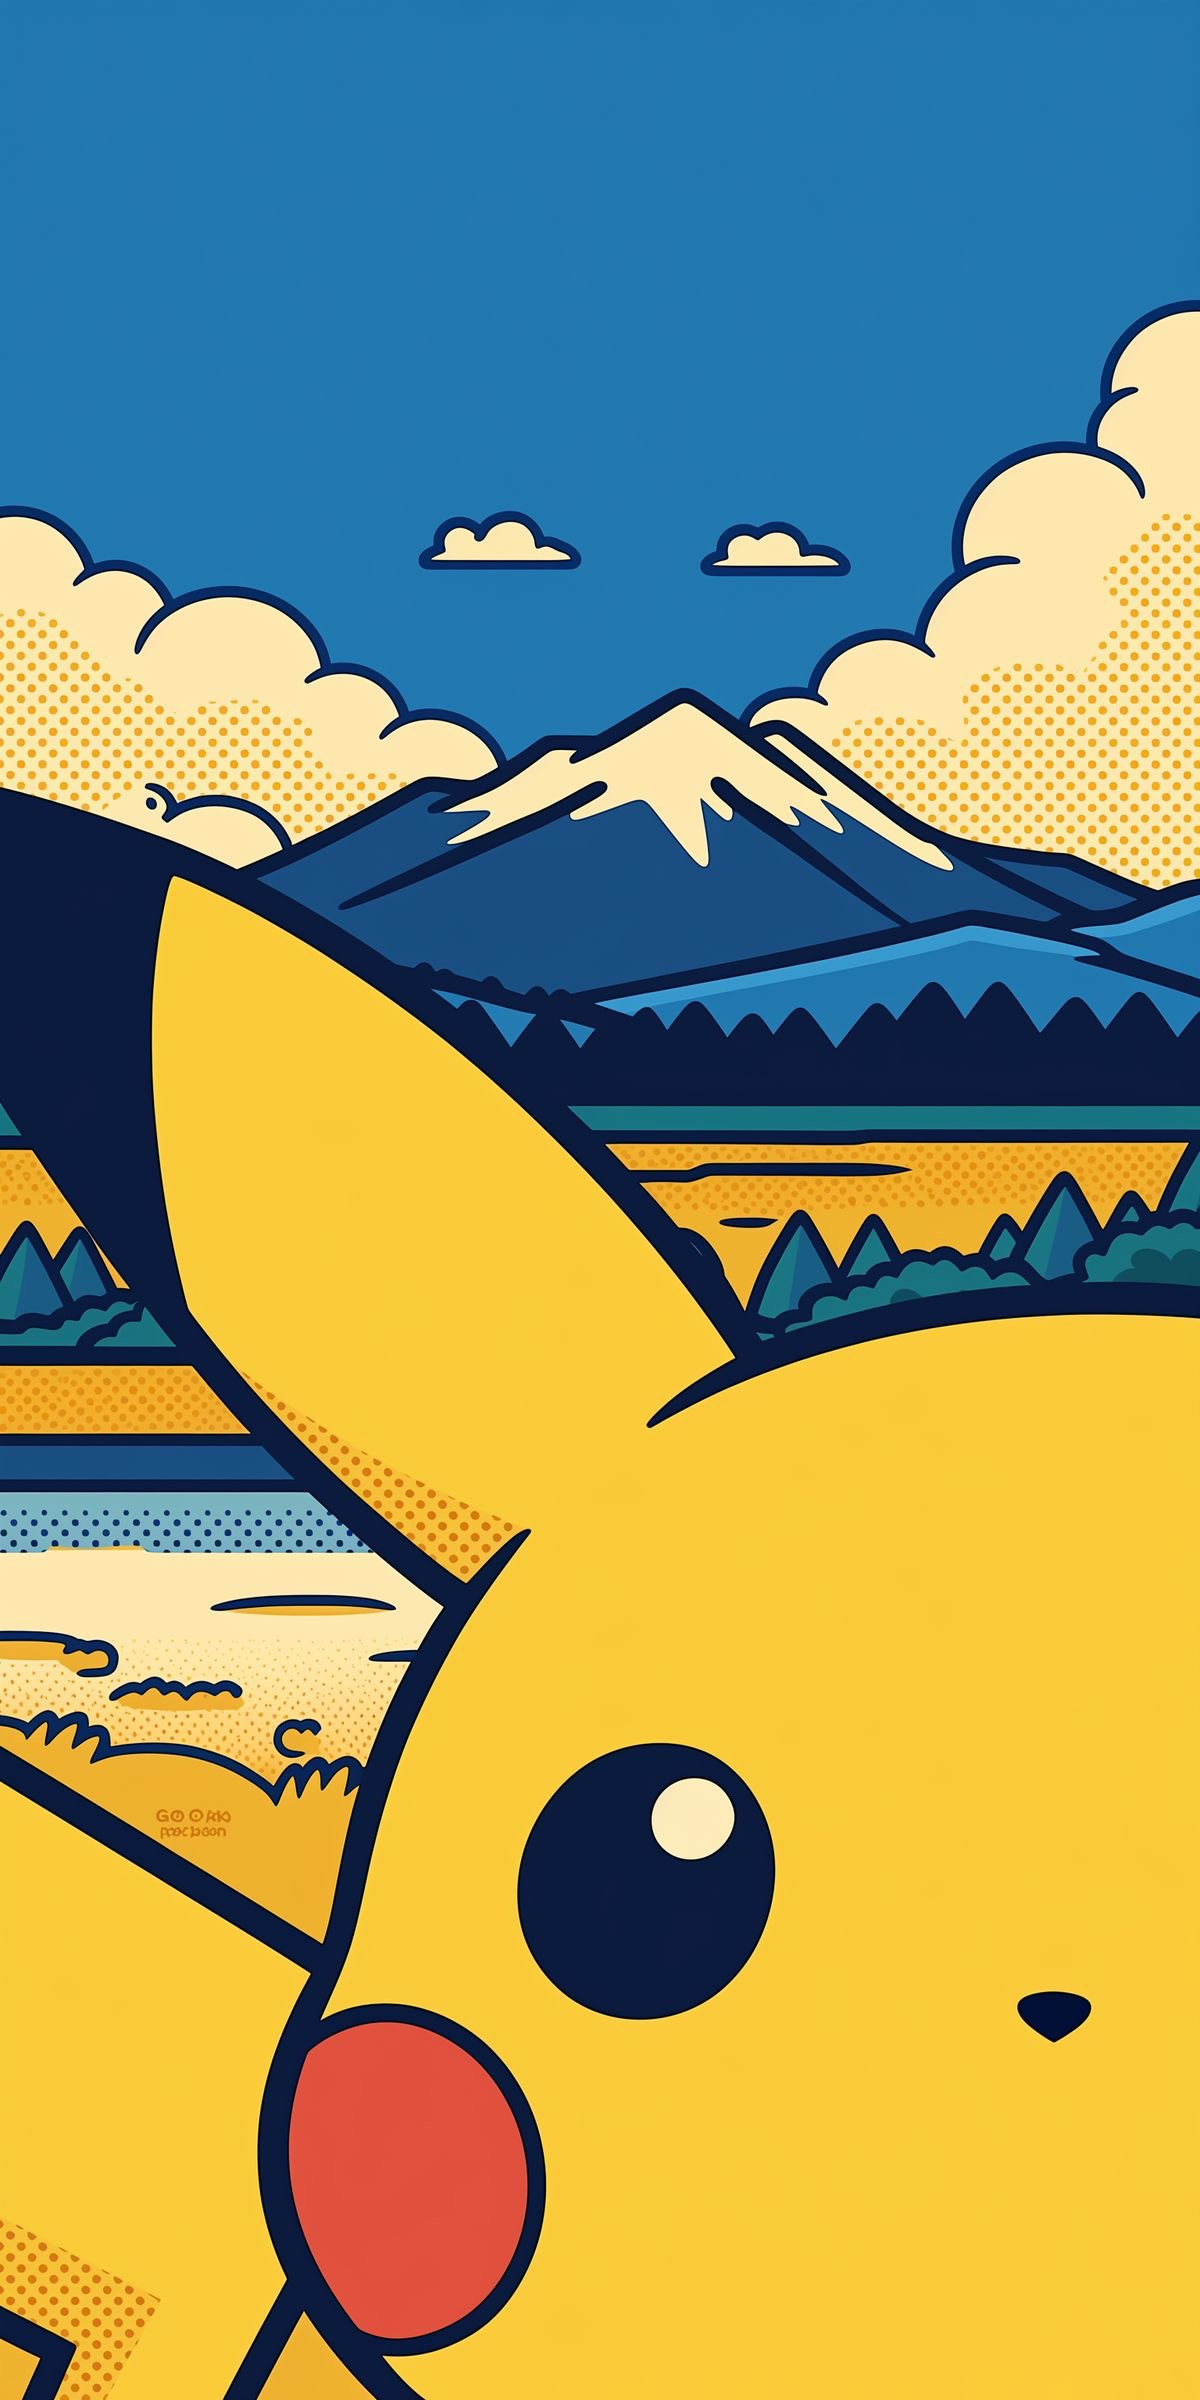
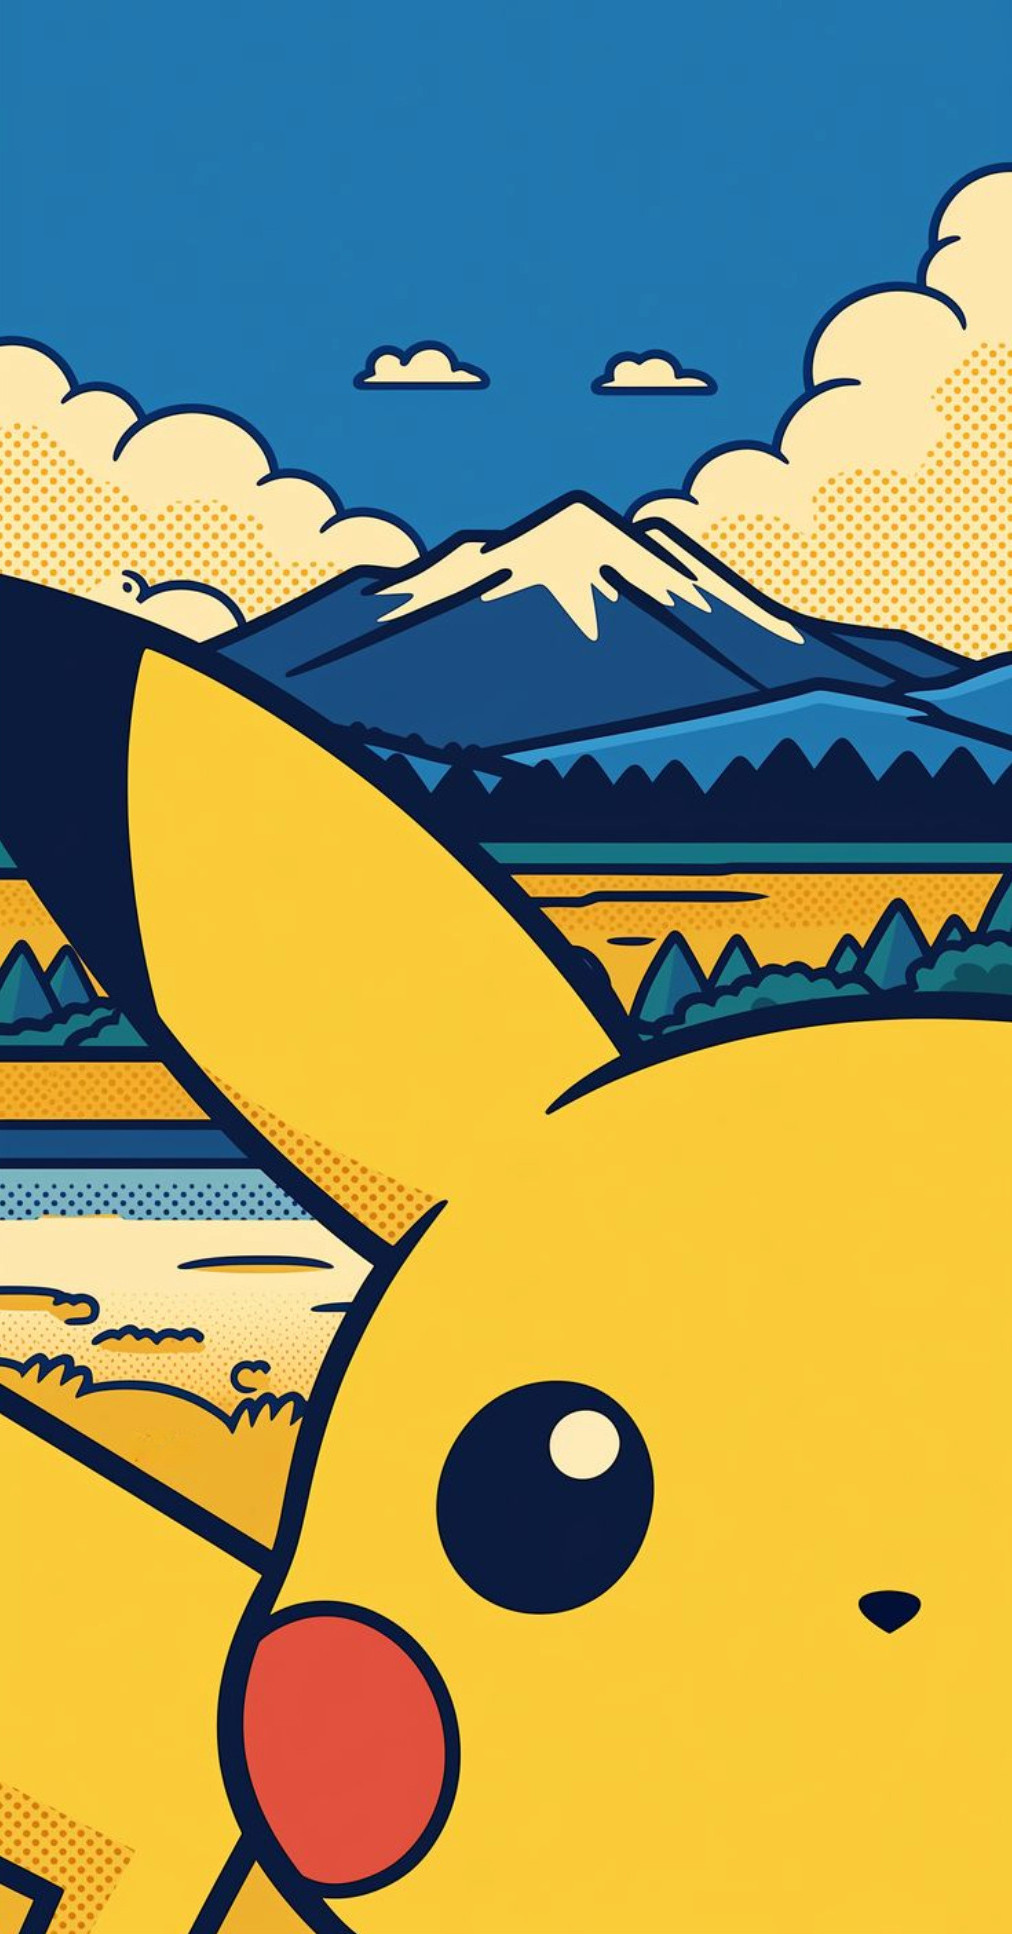
Use Marcia's new cover, cropped off the phone screenshot
The file that arrived is a phone screenshot: the picture with flat #808080 chrome
down both sides and across the foot. Measured rather than guessed, the artwork is
the box at x 84, width 1012, height 1934, and the crop is checked by counting grey
pixels left on its border, which is zero. Saved over gabriel-cover.jpg at quality
90 with no chroma subsampling, which keeps the flat colour and the navy line work
clean at 298 KB, and the intrinsic size in lib/artwork.ts updated to match.

The new one is the same drawing without the watermark in the sand. Checked on a
390 px invite with the Next image cache cleared first, because the optimiser had
been serving the old picture from a hash of a path that had not changed.

The uploaded screenshot is deleted rather than kept: 1.9 MB of grey bars.
public/artwork/README.md now carries the recipe, since this will happen again
every time she sends one.

Claude-Session: https://claude.ai/code/session_01Msg1LEo9XgApN1mNGidvQZ

diff --git a/lib/artwork.ts b/lib/artwork.ts
@@ -13,7 +13,7 @@ const GABRIEL = "/artwork/gabriel-lineup.png";
 
 /** The poster at the top of the cover card. Marcia's own, shown whole and cropped by the frame. */
 const COVERS: Record<string, Picture> = {
-  [GABRIEL]: { src: "/artwork/gabriel-cover.jpg", w: 1200, h: 2400 },
+  [GABRIEL]: { src: "/artwork/gabriel-cover.jpg", w: 1012, h: 1934 },
 };
 
 /** The band the lineup stands along the bottom of its cover. */

diff --git a/public/artwork/README.md b/public/artwork/README.md
@@ -19,8 +19,17 @@ other artwork gets the layout with no characters at all, which it is built to su
 
 ## gabriel-cover.jpg
 
-Marcia's poster for Gabriel's party, kept whole. The cover card frames it two by three and
-centres it, which lands on the mountain, the lake band, the ear, the eye and the cheek. It
-replaced a version of this drawn from scratch in SVG, which was not good enough and, worse, meant
-her own picture was nowhere on the invite. Same rule as the rest of this folder: event artwork,
+Marcia's poster for Gabriel's party, kept whole. 1012 by 1934.
+
+She sends these from her phone, so what arrives is a screenshot: the picture with the phone's
+grey chrome down both sides and across the foot. Those bars are measured off rather than guessed
+at (find the columns and rows that are flat #808080, take the box inside them, then check the
+border of the result has no grey pixels left in it at all) and the crop is saved back over this
+file as a quality 90 JPEG with no chroma subsampling, which keeps the flat colour and the navy
+line work clean at about 300 KB. Update the numbers in lib/artwork.ts when the size changes: they
+are the intrinsic size Next needs, and a wrong pair makes the cover the wrong shape.
+
+The cover card frames it two by three and centres it, which lands on the mountain, the lake band,
+the ear, the eye and the cheek. It replaced a version of this drawn from scratch in SVG, which was
+not good enough and, worse, meant her own picture was nowhere on the invite. Same rule as the rest of this folder: event artwork,
 never gallery artwork offered to another host.
